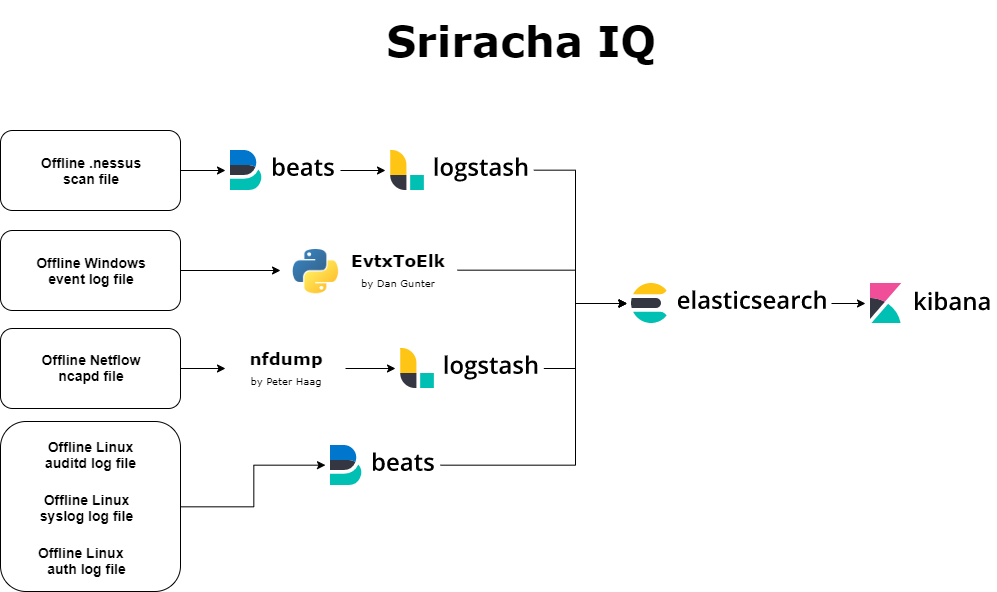
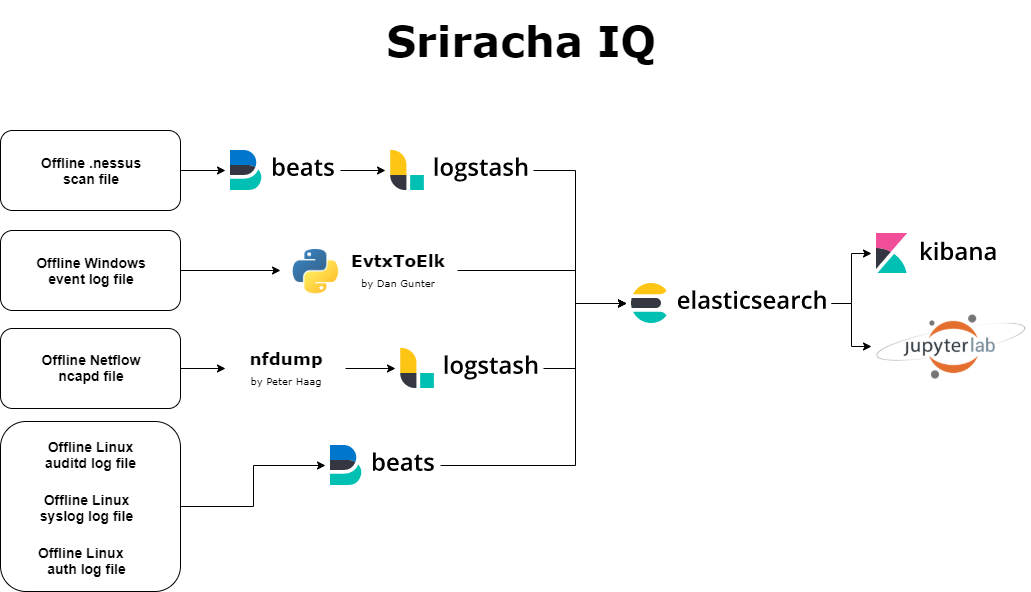
Added Jupyter Notebooks integration

diff --git a/README.md b/README.md
@@ -9,6 +9,25 @@ Given this, the project is built in Docker, leveraging docker-compose, facilitat
 ## Data Inputs & their Common Location on target OS's:
 As discussed in the Overview, the assumption is that we are working with data obtained manually & not via some centralized repository, for example manual extraction of evtx files for a Windows endpoint or manual download of the XML-based vulnerability scan report from nessus
 
+## Viewing Data
+
+### Kibana
+
+To use Kibana, access port 80 which is exposed to the docker host. A variety of views, filters, dashboards, and visualizations are preconfigured and installed as part of the SrirachaIQ suite.
+
+http://localhost:80
+
+### Jupyter Lab Notebooks
+
+For more advanced usage & custom analytics, Jupyter Notebooks have been integrated into the environment. The installation comes with basic elasticsearch libraries included & an example is included. The Jupyter Lab environment is exposed to the docker host over port 8888.
+
+Notebooks:
+ - jupyter/notebooks
+ 
+ https://localhost:8888
+
+## Data Inputs / Ingest
+
 ### Windows Data:
 
 #### /data-inputs/evtx:
